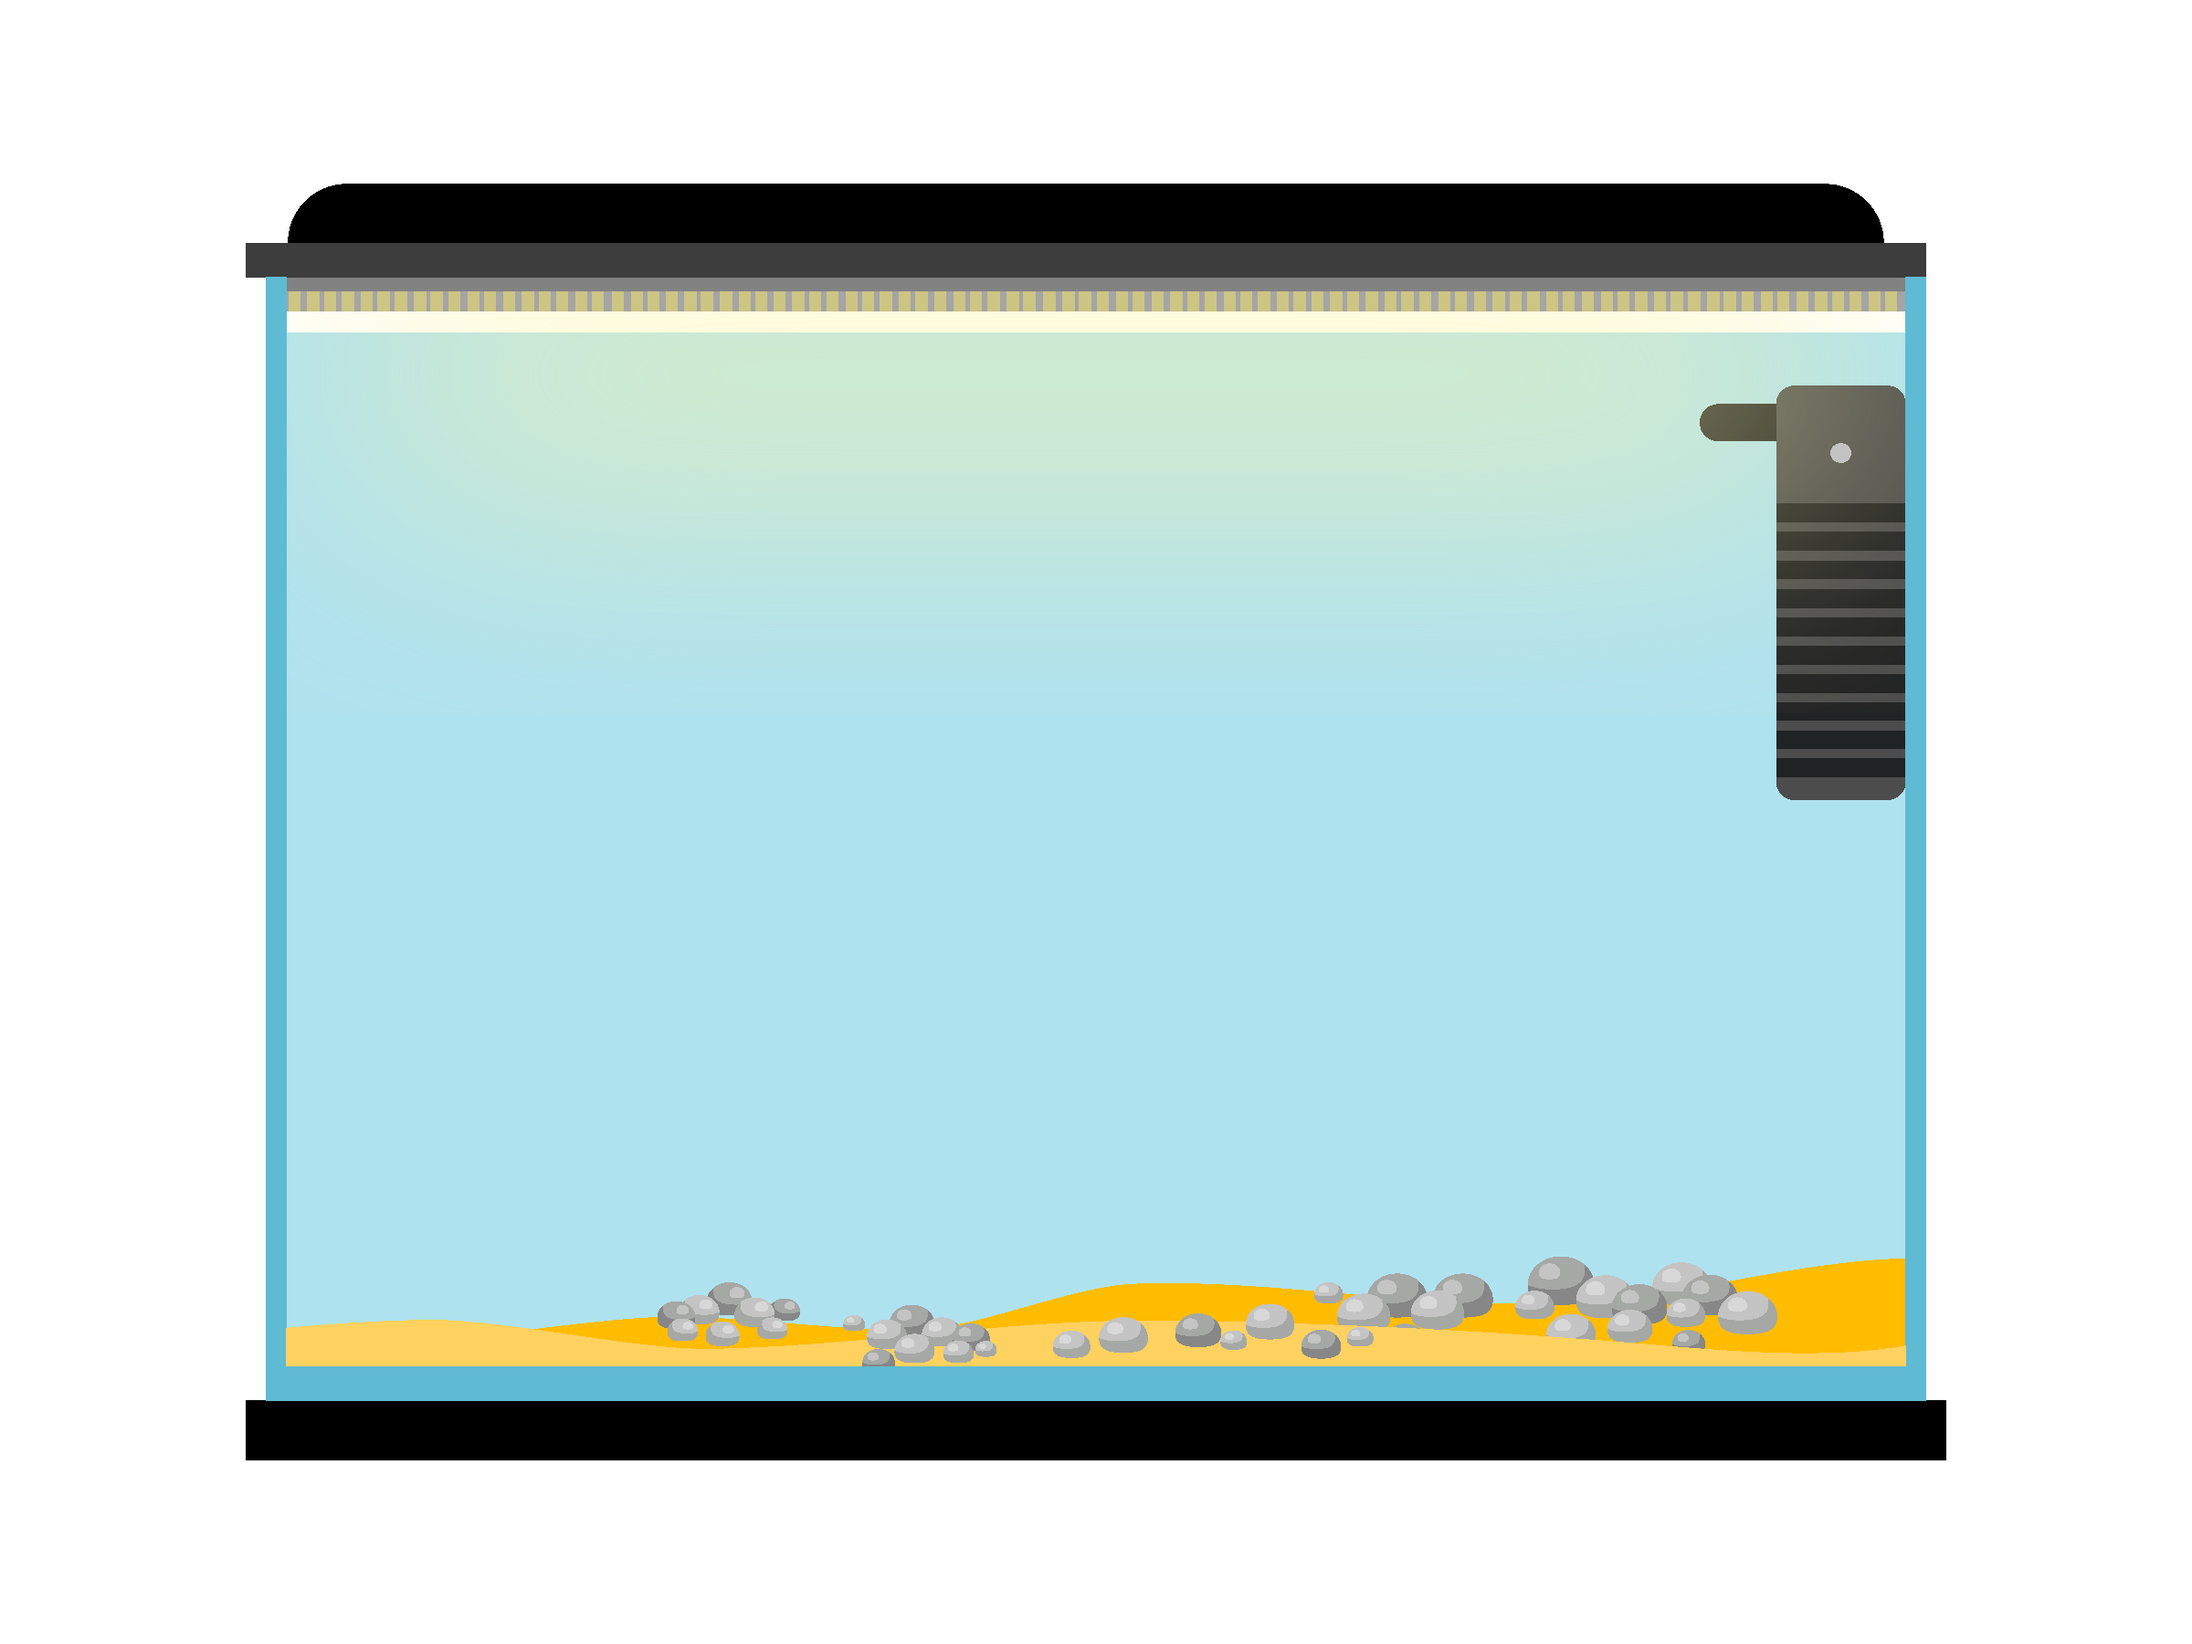
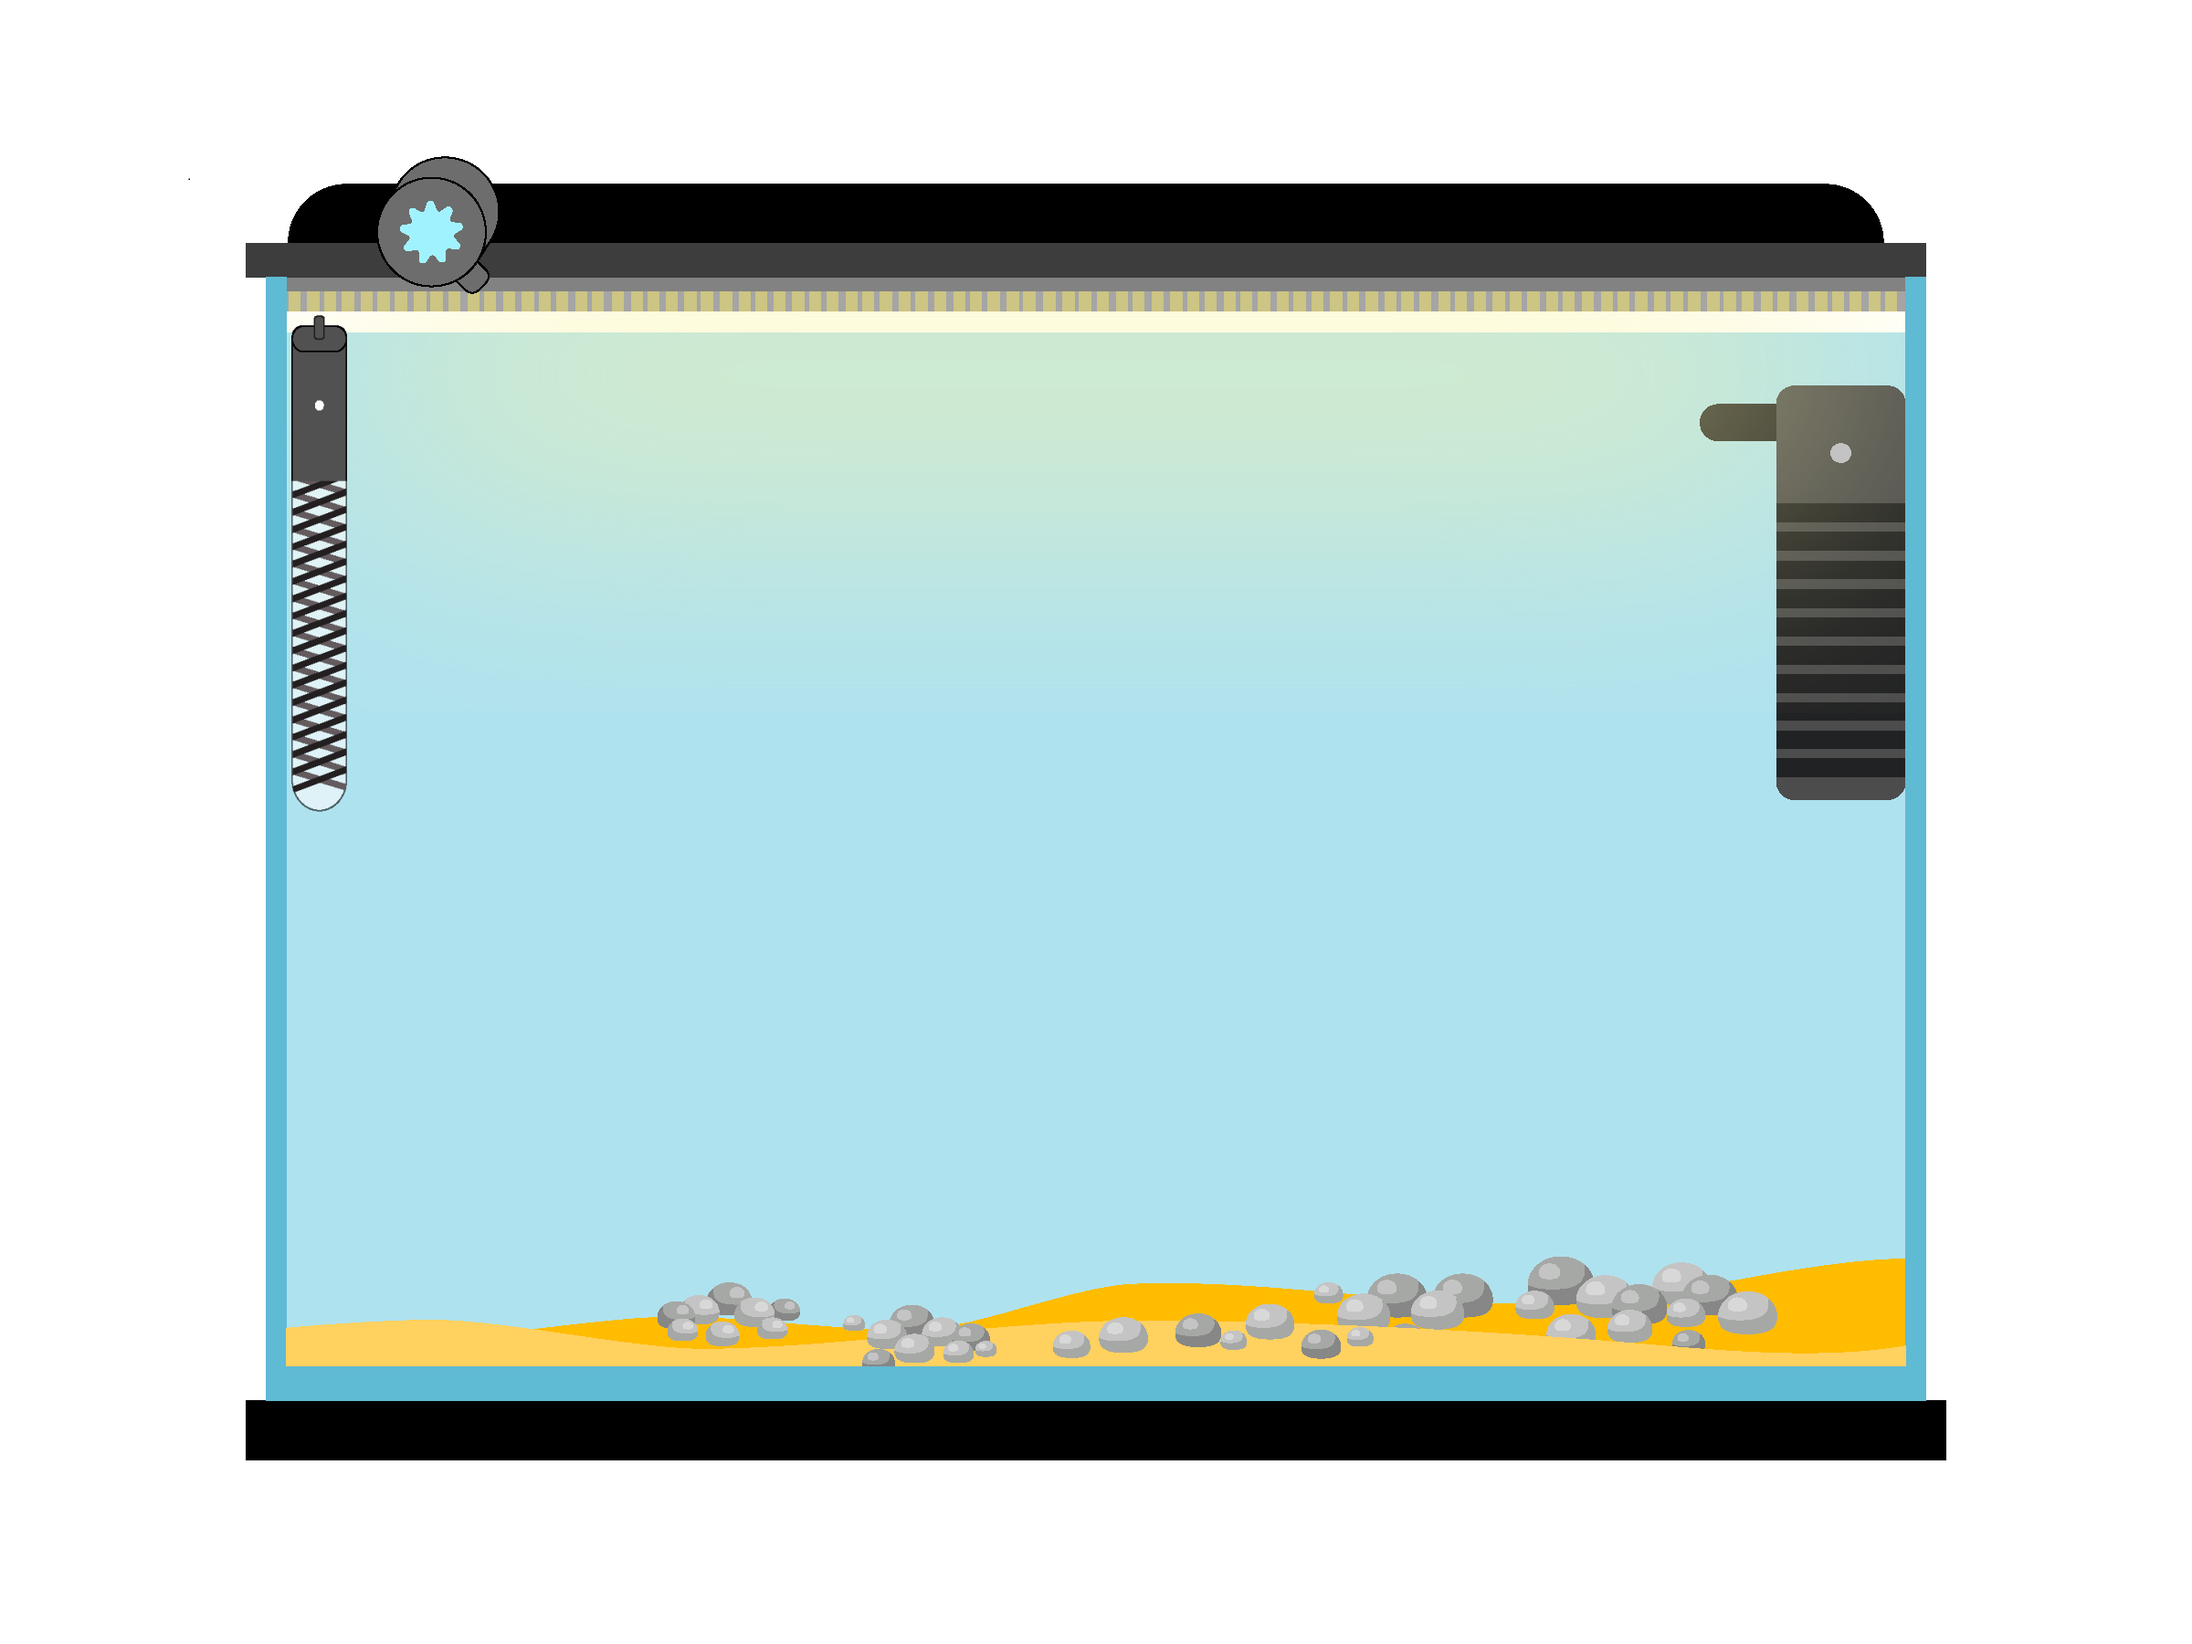
service menu done
added feeder
heater logic, heater image

Changed region(s): [[0.125, 0.1867, 0.1562, 0.4978], [0.1562, 0.0933, 0.25, 0.1867]]

diff --git a/new/app/main.py b/new/app/main.py
@@ -12,6 +12,7 @@ from PyQt5.QtWidgets import QProgressBar, QStyleOptionProgressBar, QStyle
 import copy
 from datetime import timedelta
 from PyQt5.QtGui import QPainter, QColor
+import time
 
 # from datetime import datetime
 
@@ -75,6 +76,38 @@ def read_time_from_file(file_path):
 feeder_update_date = read_time_from_file("cache/feeder_date.txt")
 
 filter_update_date = read_time_from_file("cache/filter_date.txt")
+
+
+def write_to_file(file_path, number):
+    try:
+        with open(file_path, 'w') as file:
+            file.write(str(number))  # Записываем число в файл как строку
+            print(f"Number {number} has been written to the file.")
+    except Exception as e:
+        print(f"Error occurred while writing to file: {e}")
+
+def read_from_file(file_path, default_value=0):
+    try:
+        with open(file_path, 'r') as file:
+            content = file.read().strip()  # Читаем содержимое файла и удаляем лишние пробелы
+            if content:
+                return int(content)  # Если файл не пустой, возвращаем прочитанное число
+            else:
+                print("File is empty.")
+                write_to_file(file_path, default_value)  # Если файл пустой, записываем значение по умолчанию
+                return default_value  # и возвращаем его
+    except FileNotFoundError:
+        print("File not found. Creating a new file.")
+        write_to_file(file_path, default_value)  # Если файл отсутствует, создаем новый и записываем в него значение по умолчанию
+        return default_value
+    except Exception as e:
+        print(f"Error occurred while reading from file: {e}")
+        return default_value
+
+
+heater_temp_path = "cache/heater_temp.txt"
+
+heater_temp = read_from_file(heater_temp_path, 21)
 
 
 
@@ -369,14 +402,20 @@ class Aquarium(QMainWindow):
                 fish.change_direction()
         self.update()
 
+
     def paintEvent(self, event):
-        global fish_list, filter_switch
+        global fish_list, filter_switch, heater_switch
         painter = QPainter(self)
         
         painter.drawPixmap(int(-130*scale), int(-80*scale), int(1400*scale), int(1000*scale), self.aquarium_image)
         if filter_switch:
             painter.setBrush(QColor('red'))
-            painter.drawEllipse(int(1038*scale), int(188*scale), int(15*scale), int(15*scale))
+            painter.drawEllipse(int(1039*scale), int(189*scale), int(13*scale), int(13*scale))
+
+        if heater_switch:
+            painter.setBrush(QColor('red'))
+            painter.drawEllipse(int(70*scale), int(162*scale), int(8*scale), int(8*scale))
+
         for fish in fish_list:
             fish.draw(painter)
 
@@ -655,15 +694,17 @@ class ServiceWindow(QDialog):
         self.button_refresh_feeder(int(475), int(98))
 
     def add_heater(self):
-        self.temp = 21
+        global heater_temp
+        self.temp = heater_temp
         label = QLabel("Heater", self)
         label.move(int(25*scale), int(180*scale))  # Установка позиции для метки
         label_font = QFont("Arial", 16)  # Создаем экземпляр QFont с указанным шрифтом и размером
         label.setFont(label_font)  # Устанавливаем шрифт для метки
-        progress_bar2 = ProgressBar(self, int(200*scale), int(25*scale), 0, 40, self.temp )
-        progress_bar2.move(int(110*scale), int(180*scale))  
         
-        progress_bar2.set_progress_for_heater(21)
+        self.progress_bar_heater = ProgressBar(self, int(200*scale), int(25*scale), 0, 40, self.temp )
+        self.progress_bar_heater.move(int(110*scale), int(180*scale))  
+        
+        self.progress_bar_heater.set_progress_for_heater(self.temp)
 
         self.button_switch_heater(475, 178)
         
@@ -733,11 +774,11 @@ class ServiceWindow(QDialog):
         button.clicked.connect(self.button_refresh_feeder_clicked)
 
     def button_refresh_feeder_clicked(self):
-        global progress_bar
+        global progress_bar_feeder
         self.click_sound.play()
         a = Fider()
         b = a.food_left()
-        progress_bar.set_progress_for_feeder(int(b))
+        progress_bar_feeder.set_progress_for_feeder(int(b))
         print(b)
 
 
@@ -809,8 +850,9 @@ class ServiceWindow(QDialog):
         self.slider_label.move(int((x + 500 + 10)*scale), int(y*scale))  # Устанавливаем позицию метки
 
     def update_slider_action(self, value):
-        self.temp << value
+        self.temp = value
         self.slider_label.setText(str(value))  # Обновляем значение метки при изменении значения слайдера
+
 
     def button_set_temp(self, x, y):
 
@@ -824,8 +866,34 @@ class ServiceWindow(QDialog):
         # self.button.setFont(self.font)
         button.clicked.connect(self.button_set_temp_clicked)
 
+    def increase_value(self, start_value, target_value):
+        current_value = start_value
+        while current_value < target_value:
+            current_value += 1
+            print(current_value)
+            time.sleep(1)
+
     def button_set_temp_clicked(self):
         self.click_sound.play()
+        global heater_temp_path, heater_temp
+        if heater_temp < self.temp:
+            while heater_temp < self.temp:
+                heater_temp += 1
+                print(heater_temp)
+                self.progress_bar_heater.set_progress_for_heater(heater_temp)
+                time.sleep(0.5)
+        elif heater_temp > self.temp:
+            while heater_temp > self.temp:
+                heater_temp -= 1
+                print(heater_temp)
+                self.progress_bar_heater.set_progress_for_heater(heater_temp)
+                time.sleep(0.5)
+        else:
+            heater_temp = self.temp
+
+        write_to_file(heater_temp_path, self.temp)
+        
+        print(self.temp)
 
     def button_switch_filter(self, x, y):
         global filter_switch
